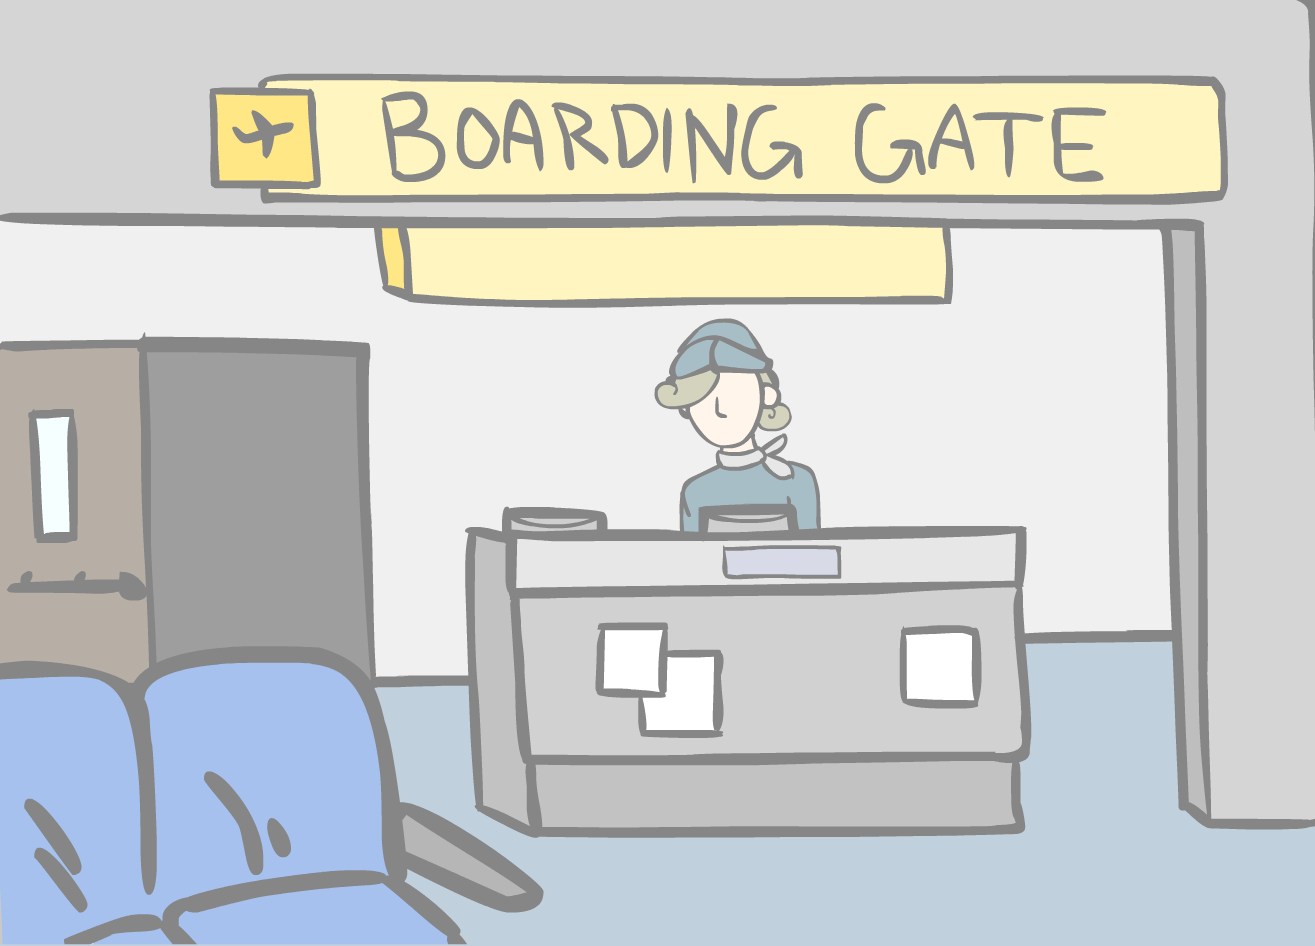
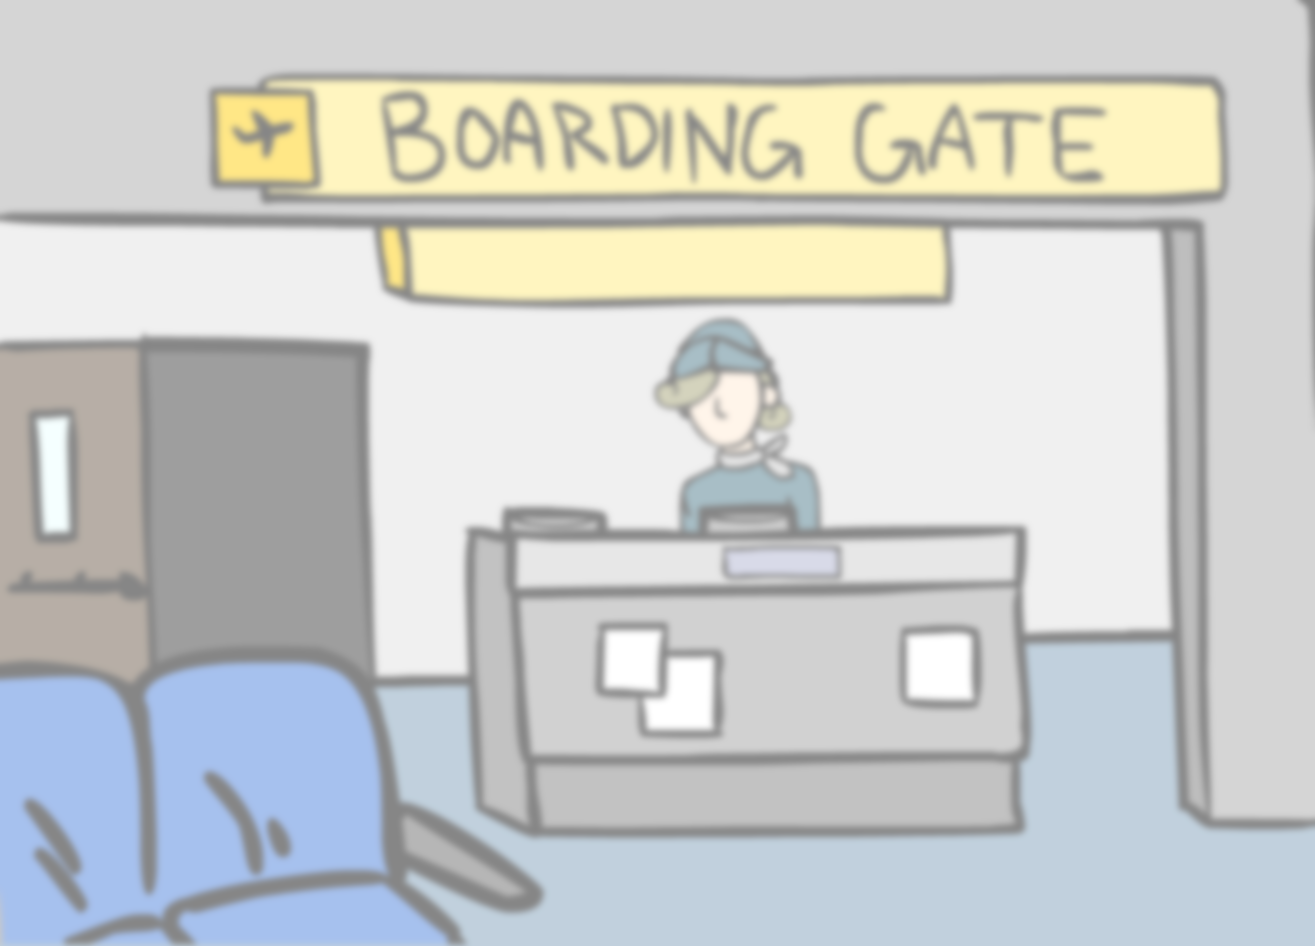
made background blurry and text changes again woo

diff --git a/game/js/charSelect.js b/game/js/charSelect.js
@@ -36,22 +36,23 @@ var charSelect = {
         var padControls2Shown;
 		
 		var upArrow;
-		var gateClosed;
-		var nowBoarding;
+		var backgrounds;
+		var bg_GC;
+		var bg_NB;
 		
     },
     
     create: function(){
-        
-		var bg = game.add.sprite(0,-30,'CharBG');
-		bg.scale.setTo(1, .8);
+        backgrounds = game.add.group();
 		
-		gateClosed = game.add.sprite(450, 155, "closed");
-		gateClosed.scale.setTo(.9, .7);
+		bg_GC = game.add.sprite(0,-30,'CharBG_GC');
+		bg_GC.scale.setTo(1, .8);
 		
-		nowBoarding = game.add.sprite(450, 155, "boarding");
-		nowBoarding.scale.setTo(.9, .7);
-		nowBoarding.alpha = 0;
+		bg_NB = game.add.sprite(0,-30,'CharBG_NB');
+		bg_NB.scale.setTo(1, .8);
+		bg_NB.alpha = 0;
+		
+		backgrounds.add(bg_NB);
 		
         //var logo = game.add.sprite(game.width/2-300,game.height/4-50,"logo");
         //logo.scale.setTo(.7,.7);
@@ -390,8 +391,9 @@ var charSelect = {
         }
         
         if(P1Chose && P2Chose && battleCry1Done && battleCry2Done){
-			gateClosed.alpha = 0;
-			nowBoarding.alpha = 1;
+			bg_GC.alpha = 0;
+			bg_NB.alpha = 1;
+			//backgroundSwitch();
             P1CharChosen = characters[P1index];
             P2CharChosen = characters[P2index];
             if (P1CharChosen == P2CharChosen){
@@ -450,5 +452,7 @@ var charSelect = {
         tween2.onComplete.add(charSelect.resetBattleCryVars2, this);
         battleCry2Done = true;
     }
+	
+
     
 };

diff --git a/game/js/preloader.js b/game/js/preloader.js
@@ -18,7 +18,8 @@ var preloaderState = {
         game.load.image('pause_menu','assets/img/menu_bg_temp.png');
 		game.load.image('controls1_menu','assets/img/Player1_Controls.png');
 		game.load.image('controls2_menu','assets/img/Player2_Controls.png');
-		game.load.image('CharBG', 'assets/img/CharSelectBG.png');
+		game.load.image('CharBG_GC', 'assets/img/CharSelectBG_GC.png');
+		game.load.image('CharBG_NB', 'assets/img/CharSelectBG_NB.png');
 		game.load.image('closed', 'assets/img/GateClosed.png');
 		game.load.image('boarding', 'assets/img/NowBoarding.png');
 
@@ -100,7 +101,7 @@ var preloaderState = {
 
 	create: function(){
 		//game.state.start('main');
-        game.state.start('title');
+        game.state.start('charSelect');
 	}
 
 };
